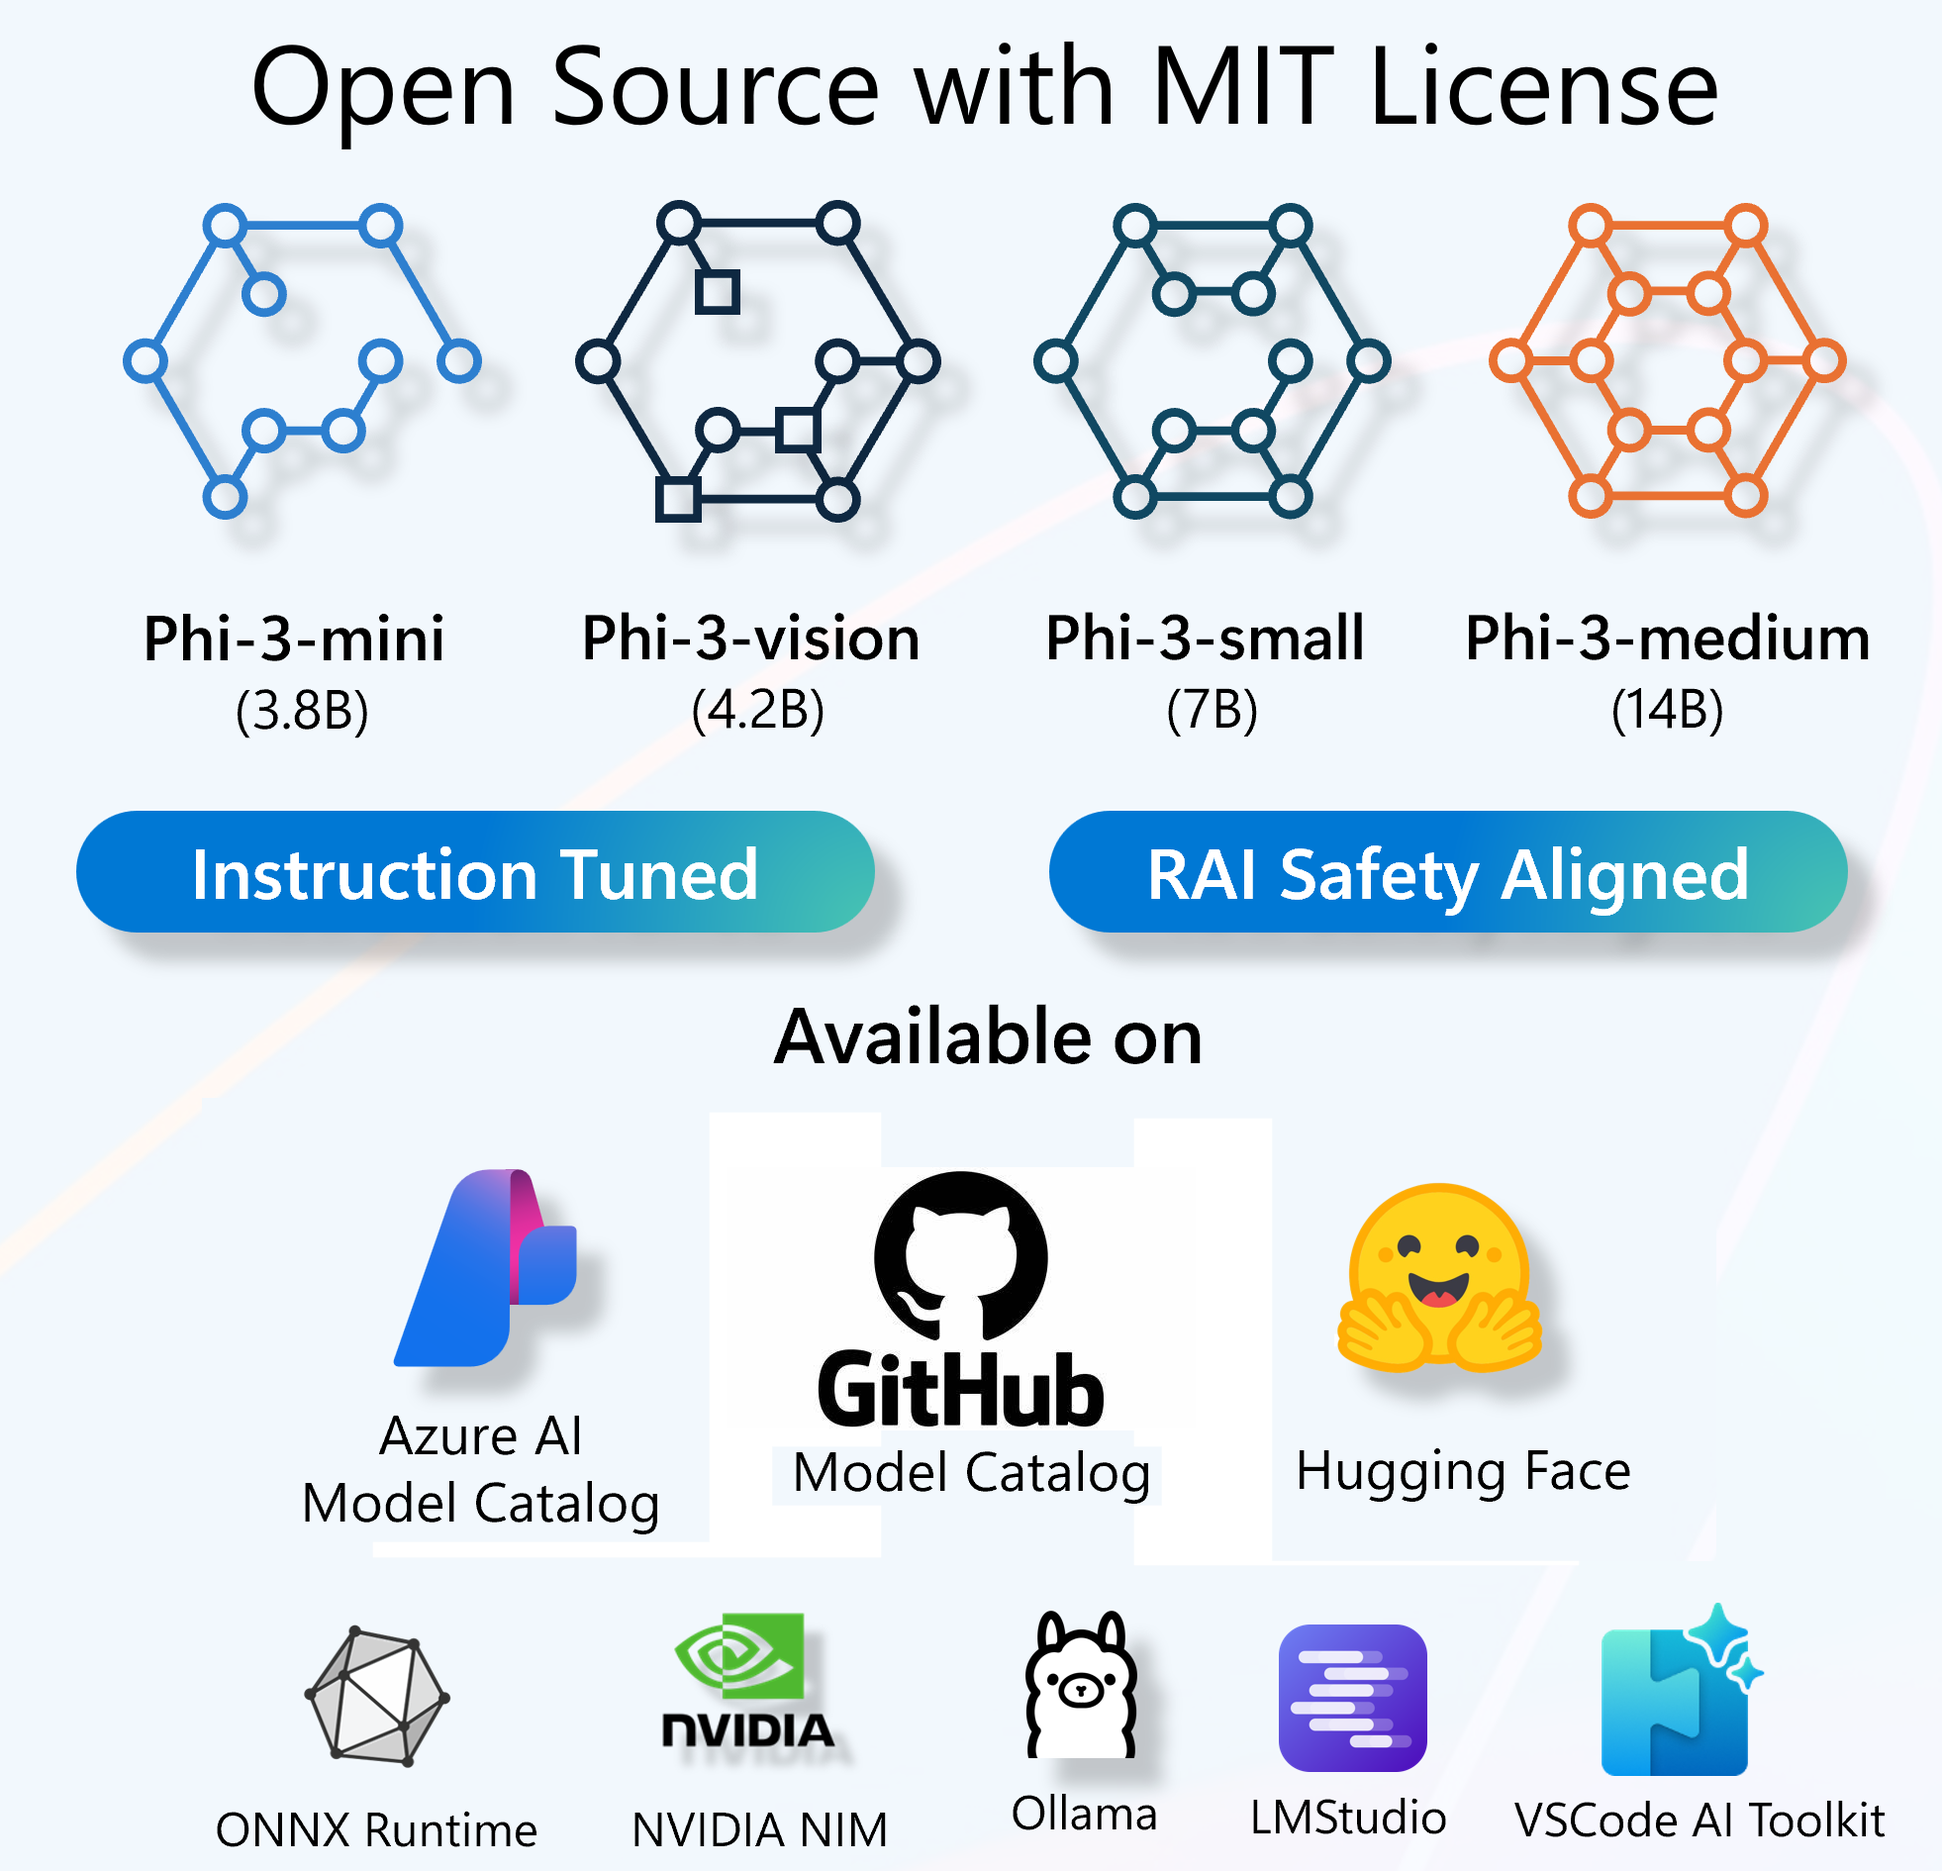
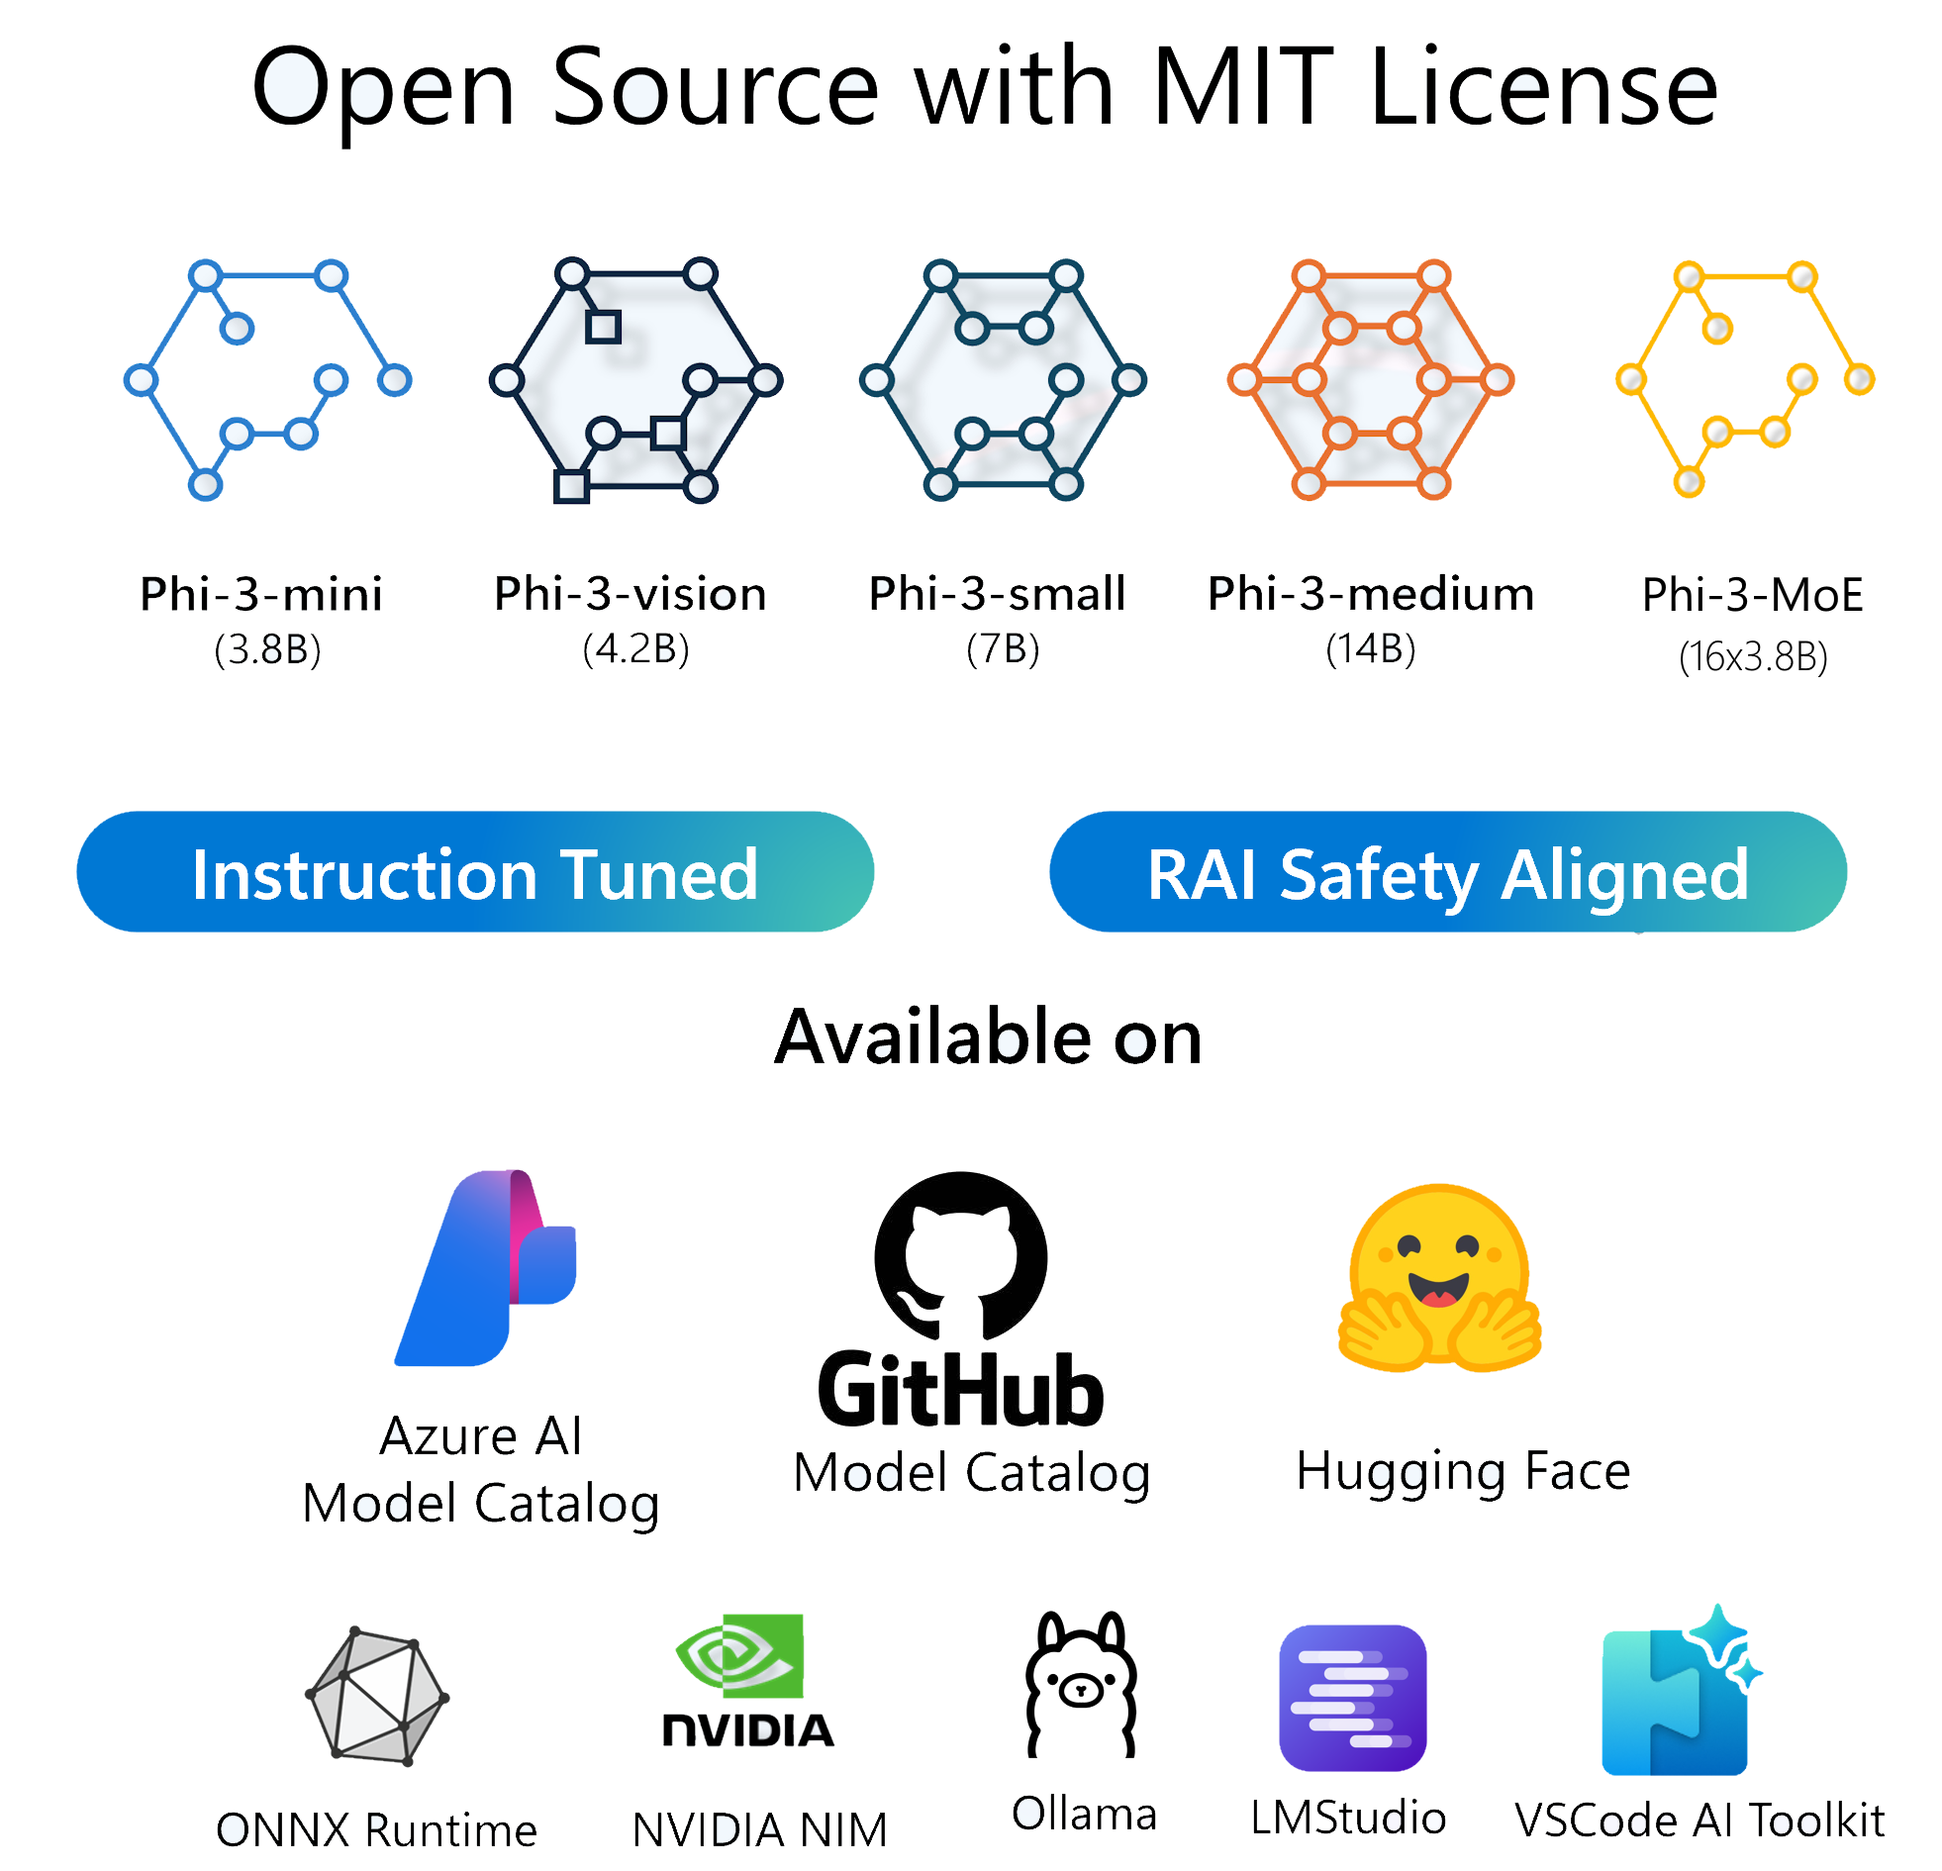
Updates for Aug Release

diff --git a/md/01.Introduce/Phi3Family.md b/md/01.Introduce/Phi3Family.md
@@ -26,6 +26,23 @@ Phi-3-mini is a Transformer-based language model with 3.8 billion parameters. It
 
 ![phi3modelminibenchmark128k](../../imgs/01/phi3minibenchmark128.png)
 
+## Phi-3.5-mini-instruct 
+
+Phi-3.5 mini is a lightweight, state-of-the-art open model built upon datasets used for Phi-3 - synthetic data and filtered publicly available websites - with a focus on very high-quality, reasoning dense data. The model belongs to the Phi-3 model family and supports 128K token context length. The model underwent a rigorous enhancement process, incorporating both supervised fine-tuning, proximal policy optimization, and direct preference optimization to ensure precise instruction adherence and robust safety measures.
+
+Phi-3.5 Mini has 3.8B parameters and is a dense decoder-only Transformer model using the same tokenizer as Phi-3 Mini.
+
+![phi3miniinstruct](../../imgs/01/phi3miniinstructbenchmark.png)
+
+Overall, the model with only 3.8B-param achieves a similar level of multilingual language understanding and reasoning ability as much larger models. However, it is still fundamentally limited by its size for certain tasks. The model simply does not have the capacity to store too much factual knowledge, therefore, users may experience factual incorrectness. However, we believe such weakness can be resolved by augmenting Phi-3.5 with a search engine, particularly when using the model under RAG settings.
+
+### Language Support 
+
+The table below highlights multilingual capability of the Phi-3 on multilingual MMLU, MEGA, and multilingual MMLU-pro datasets. Overall, we observed that even with just 3.8B active parameters, the model is very competitive on multilingual tasks in comparison to other models with a much bigger active parameters.
+
+![phi3minilanguagesupport](../../imgs/01/phi3miniinstructlanguagesupport.png)
+
+
 ## Phi-3-small
 
 Phi-3-small, a 7B parameter language model, available in two context lengths [128K](https://ai.azure.com/explore/models/Phi-3-small-128k-instruct/version/2/registry/azureml) and [8K.](https://ai.azure.com/explore/models/Phi-3-small-8k-instruct/version/2/registry/azureml) outperforms GPT-3.5T across a variety of language, reasoning, coding, and math benchmarks.
@@ -53,6 +70,41 @@ The [Phi-3-vision](https://ai.azure.com/explore/models/Phi-3-vision-128k-instruc
 Phi-3-vision is the first multimodal model in the Phi-3 family, bringing together text and images. Phi-3-vision can be used to reason over real-world images and extract and reason over text from images. It has also been optimized for chart and diagram understanding and can be used to generate insights and answer questions. Phi-3-vision builds on the language capabilities of the Phi-3-mini, continuing to pack strong language and image reasoning quality in a small size.
 
 ![phi3modelvision](../../imgs/01/phi3visionbenchmark.png)
+
+## Phi-3.5-vision
+Phi-3.5 Vision is a lightweight, state-of-the-art open multimodal model built upon datasets which include - synthetic data and filtered publicly available websites - with a focus on very high-quality, reasoning dense data both on text and vision. The model belongs to the Phi-3 model family, and the multimodal version comes with 128K context length (in tokens) it can support. The model underwent a rigorous enhancement process, incorporating both supervised fine-tuning and direct preference optimization to ensure precise instruction adherence and robust safety measures.
+
+Phi-3.5 Vision has 4.2B parameters and contains image encoder, connector, projector, and Phi-3 Mini language model.
+
+The model is intended for broad commercial and research use in English. The model provides uses for general purpose AI systems and applications with visual and text input capabilities which require
+1) memory/compute constrained environments.
+2) latency bound scenarios.
+3) general image understanding.
+4) OCR
+5) chart and table understanding.
+6) multiple image comparison.
+7)multi-image or video clip summarization.
+
+ Phi-3.5-vision model is designed to accelerate research on efficient language and multimodal models, for use as a building block for generative AI powered features
+
+![phi35_vision](../../imgs/01/phi35visionbenchmark.png)
+
+## Phi-3.5-MoE
+
+Phi-3.5 MoE is a lightweight, state-of-the-art open model built upon datasets used for Phi-3 - synthetic data and filtered publicly available documents - with a focus on very high-quality, reasoning dense data. The model supports multilingual and comes with 128K context length (in tokens). The model underwent a rigorous enhancement process, incorporating supervised fine-tuning, proximal policy optimization, and direct preference optimization to ensure precise instruction adherence and robust safety measures.
+
+Phi-3 MoE has 16x3.8B parameters with 6.6B active parameters when using 2 experts. The model is a mixture-of-expert decoder-only Transformer model using the tokenizer with vocabulary size of 32,064.
+
+The model is intended for broad commercial and research use in English. The model provides uses for general purpose AI systems and applications which require.
+
+1) memory/compute constrained environments. 
+2) latency bound scenarios. 
+3) strong reasoning (especially math and logic).
+
+The MoE model is designed to accelerate research on language and multimodal models, for use as a building block for generative AI powered features and requires additional compute resources.
+
+
+![phi35moe_model](../../imgs/01/phi35moebenchmark.png)
 
 > [!NOTE]
 >
